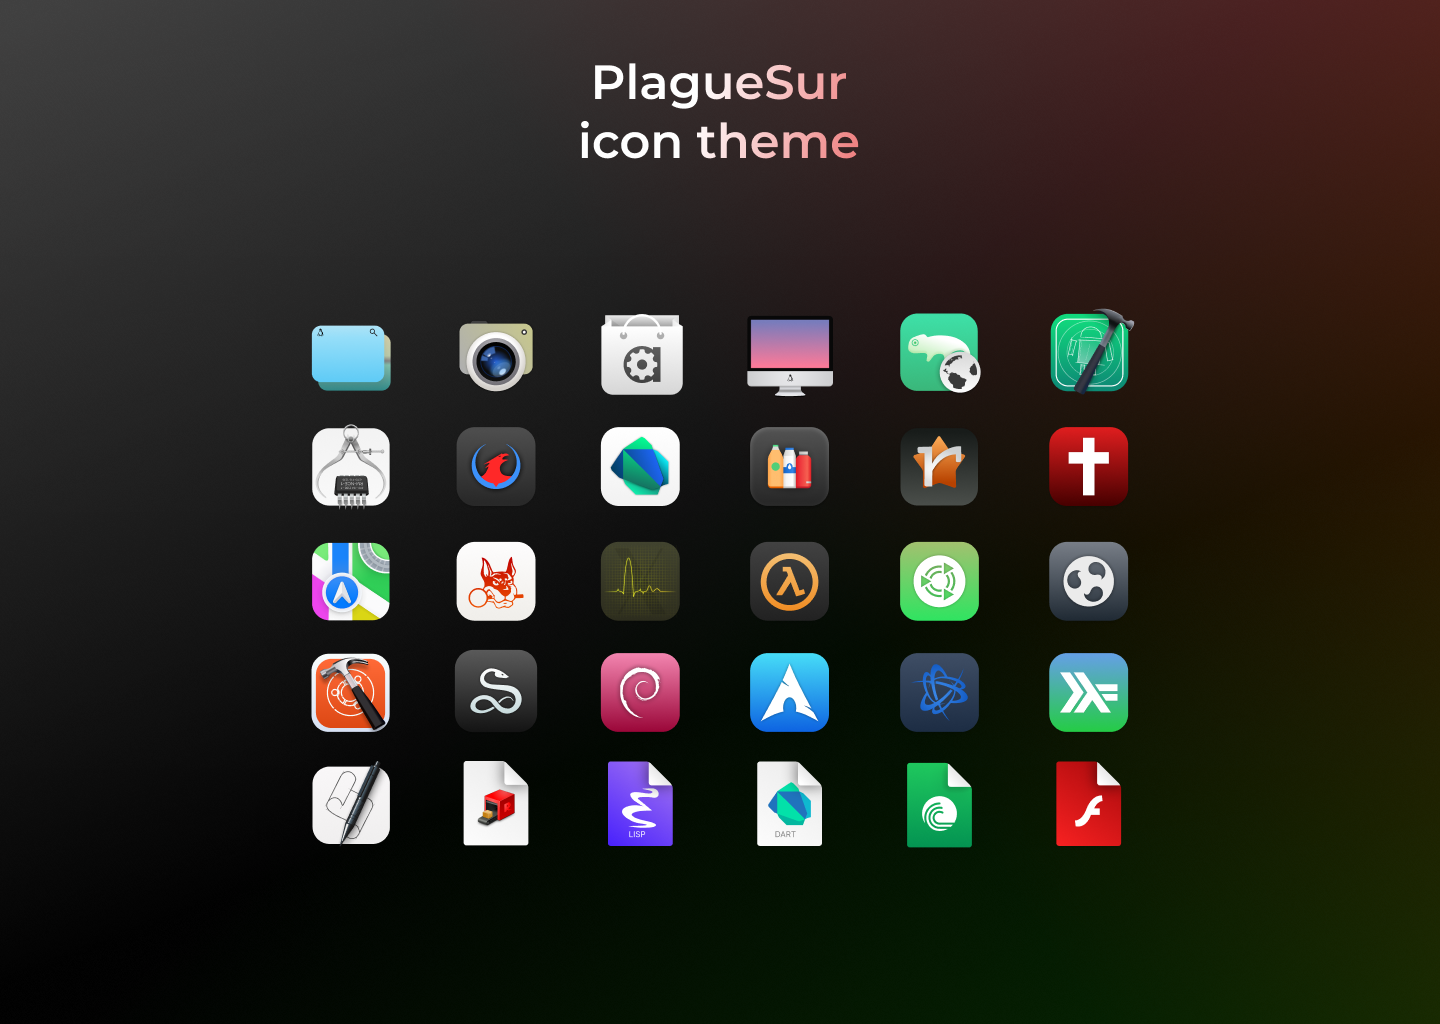
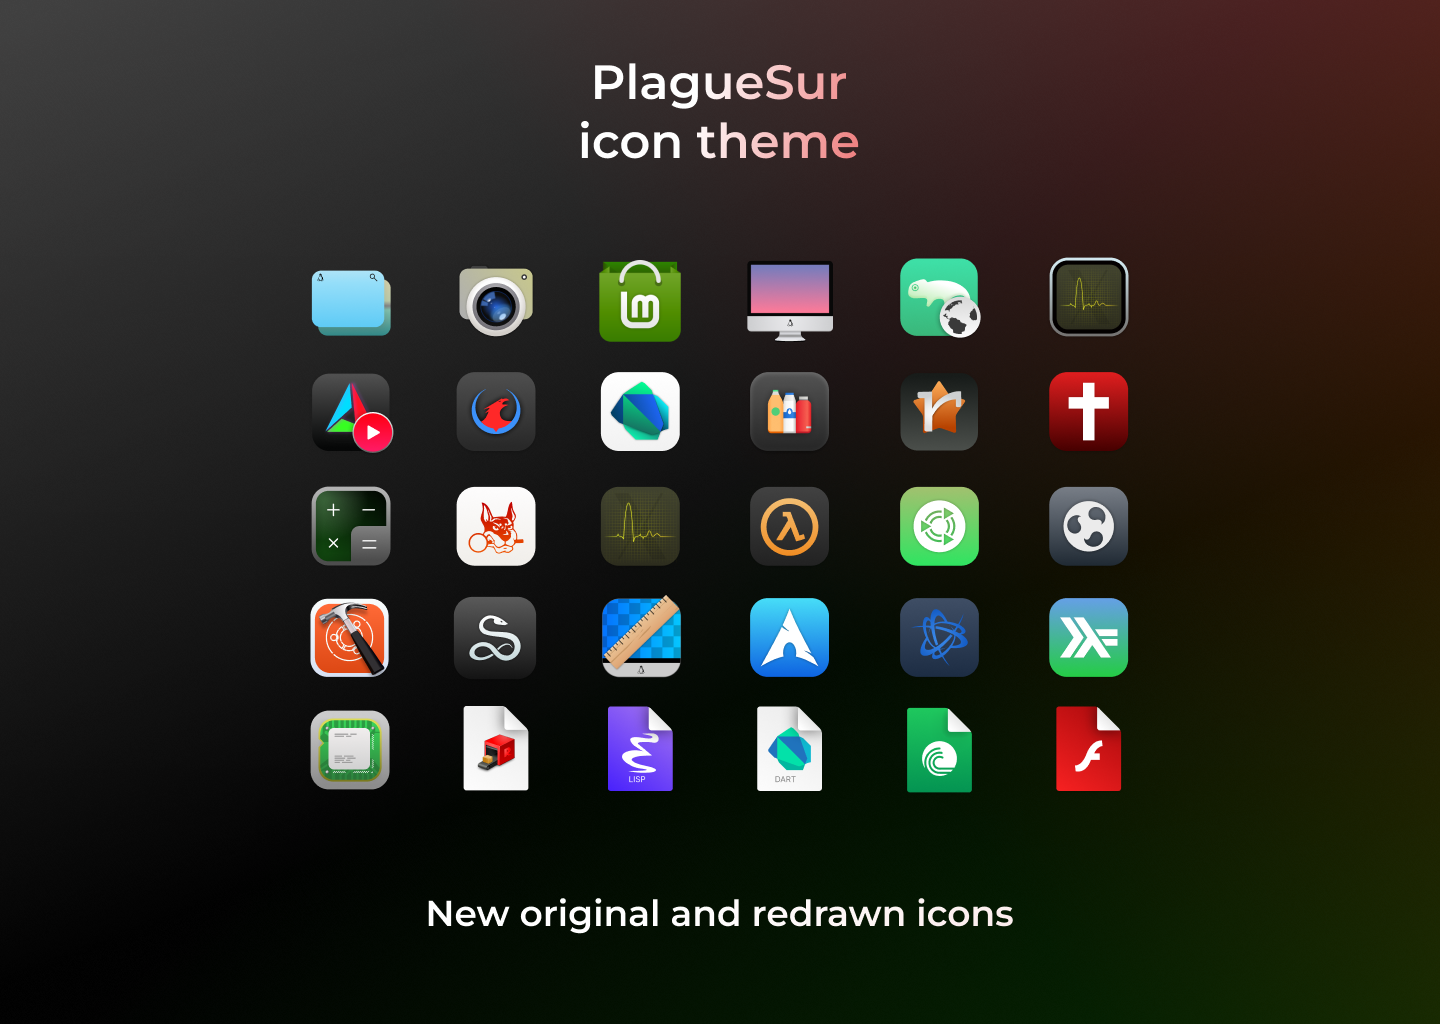
Update README pictures

diff --git a/README.md b/README.md
@@ -2,6 +2,14 @@
 
 ![Icon theme preview](./icon-theme-preview.png)
 
+![New device icons](./new-device-icons.png)
+
+![Fixed dark-theme miniatures](./fixed-miniatures.png)
+
+![No more Apple branding](./no-more-apples.png)
+
+![Better XFCE](./xfce.png)
+
 Nice dark icon theme, extending the WhiteSur-Dark theme.
 This is an extension of the WhiteSur icon theme, so i recommend
 to install both themes. But it'll also work mostly fine standalone.
